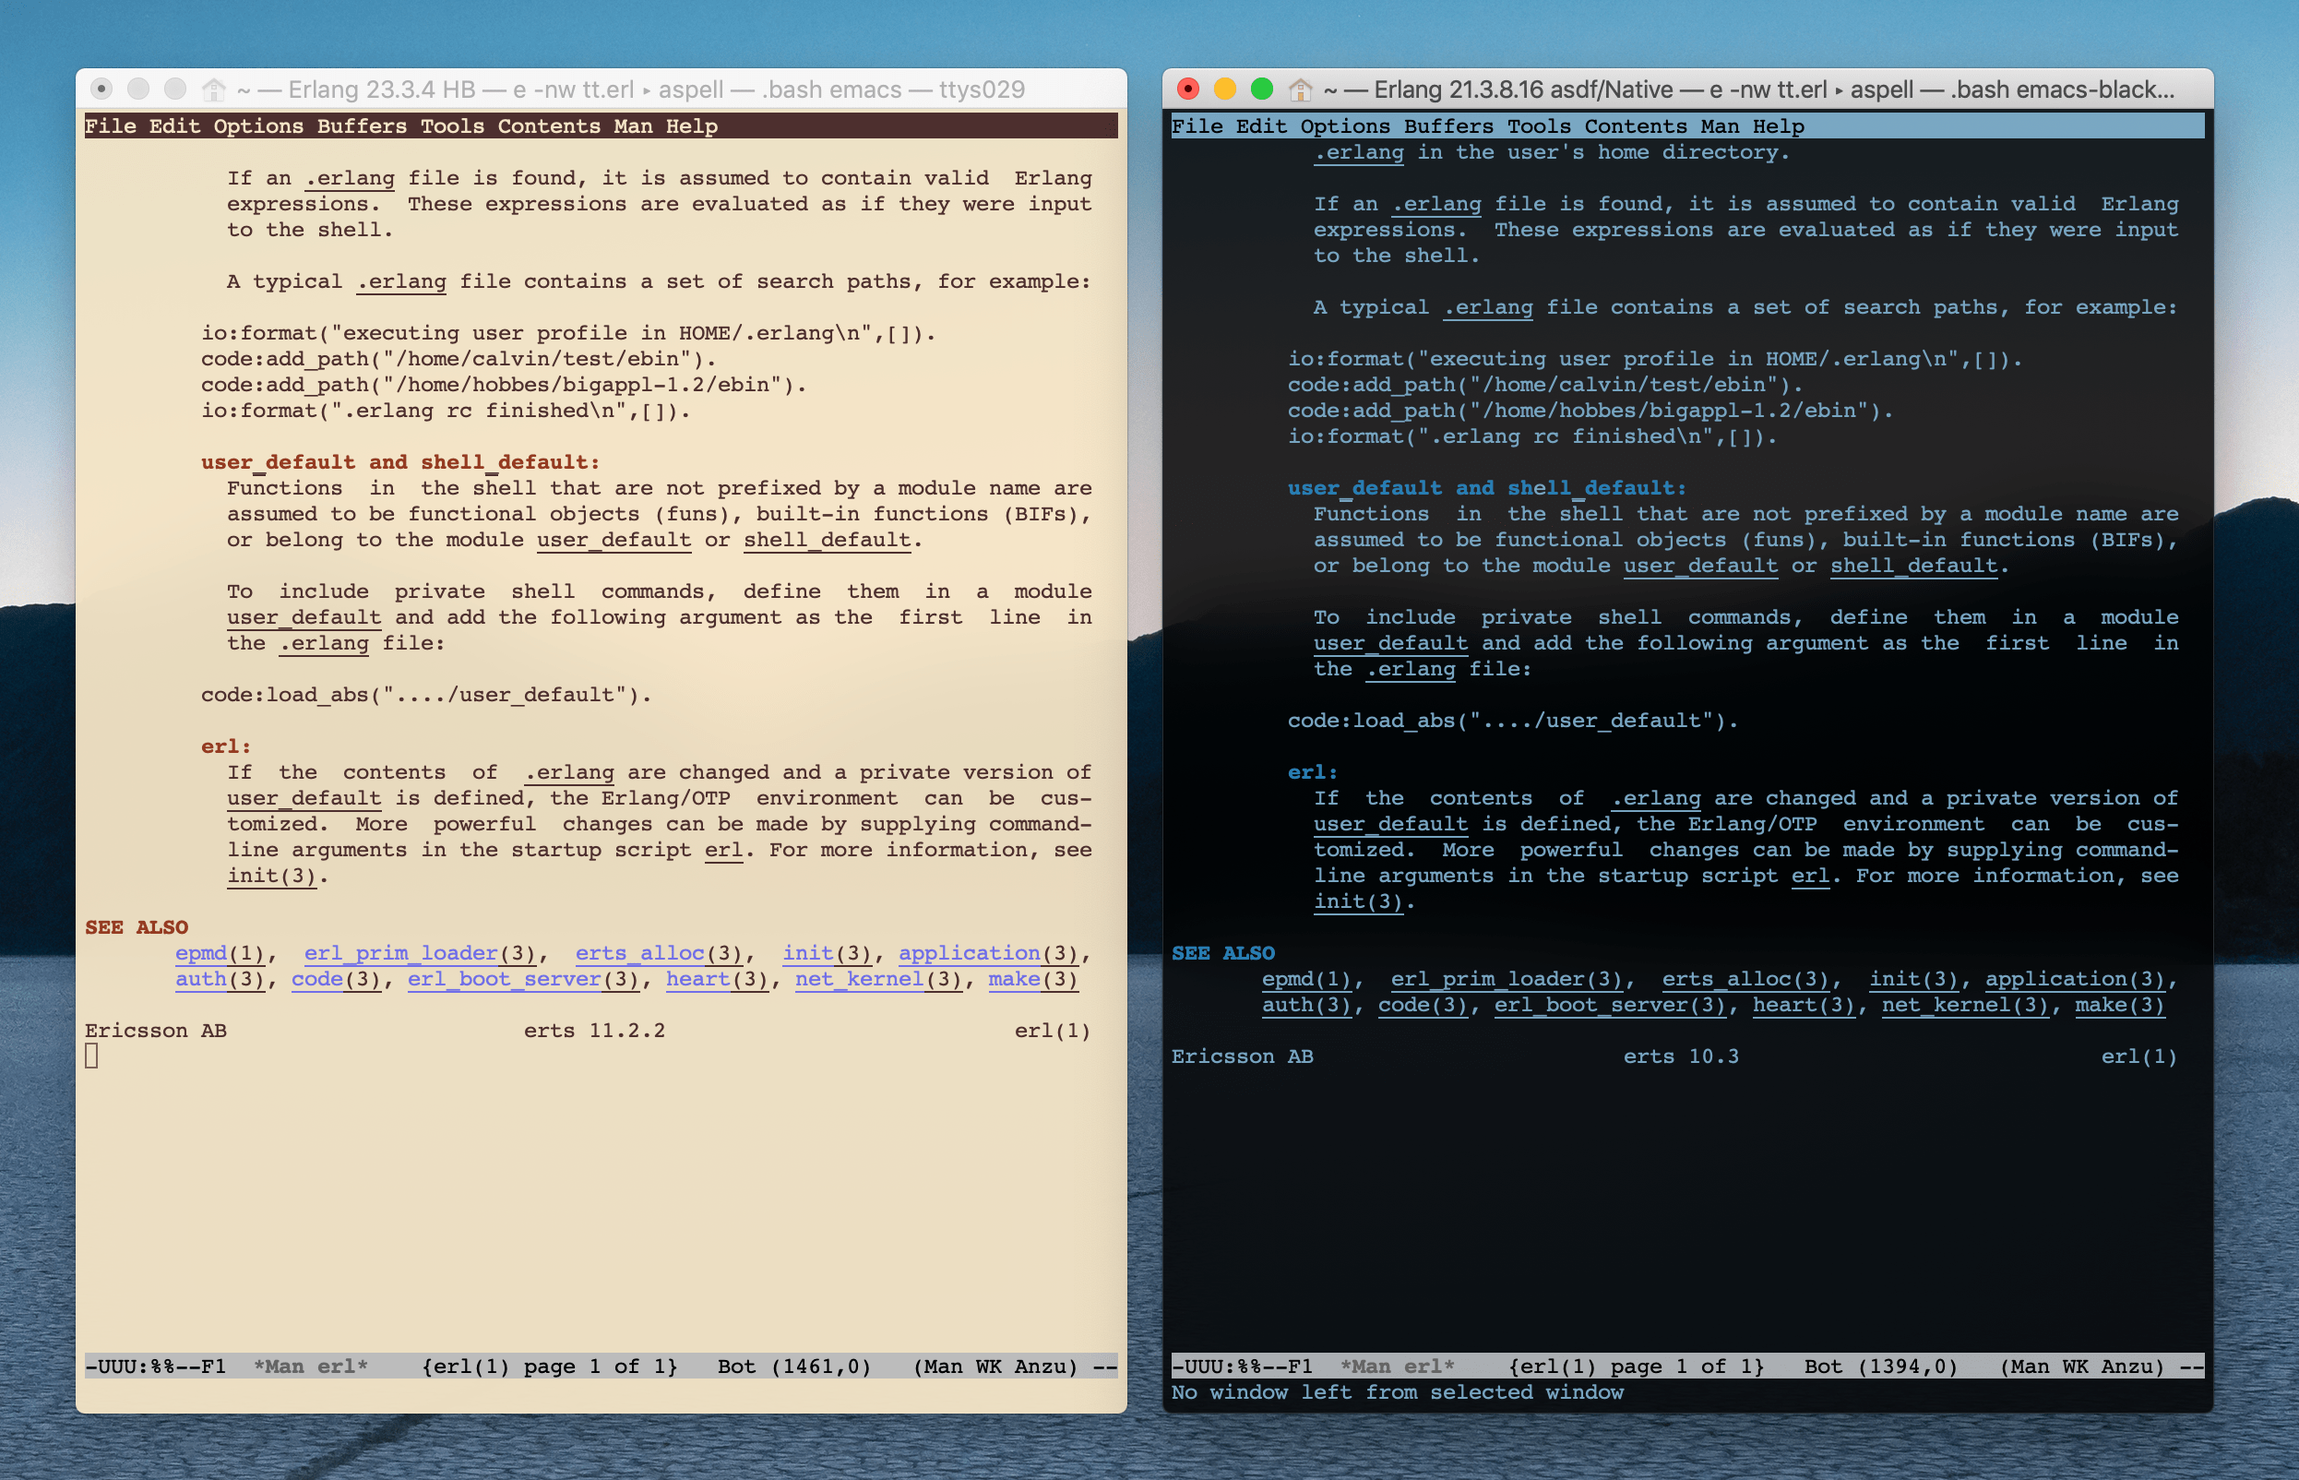
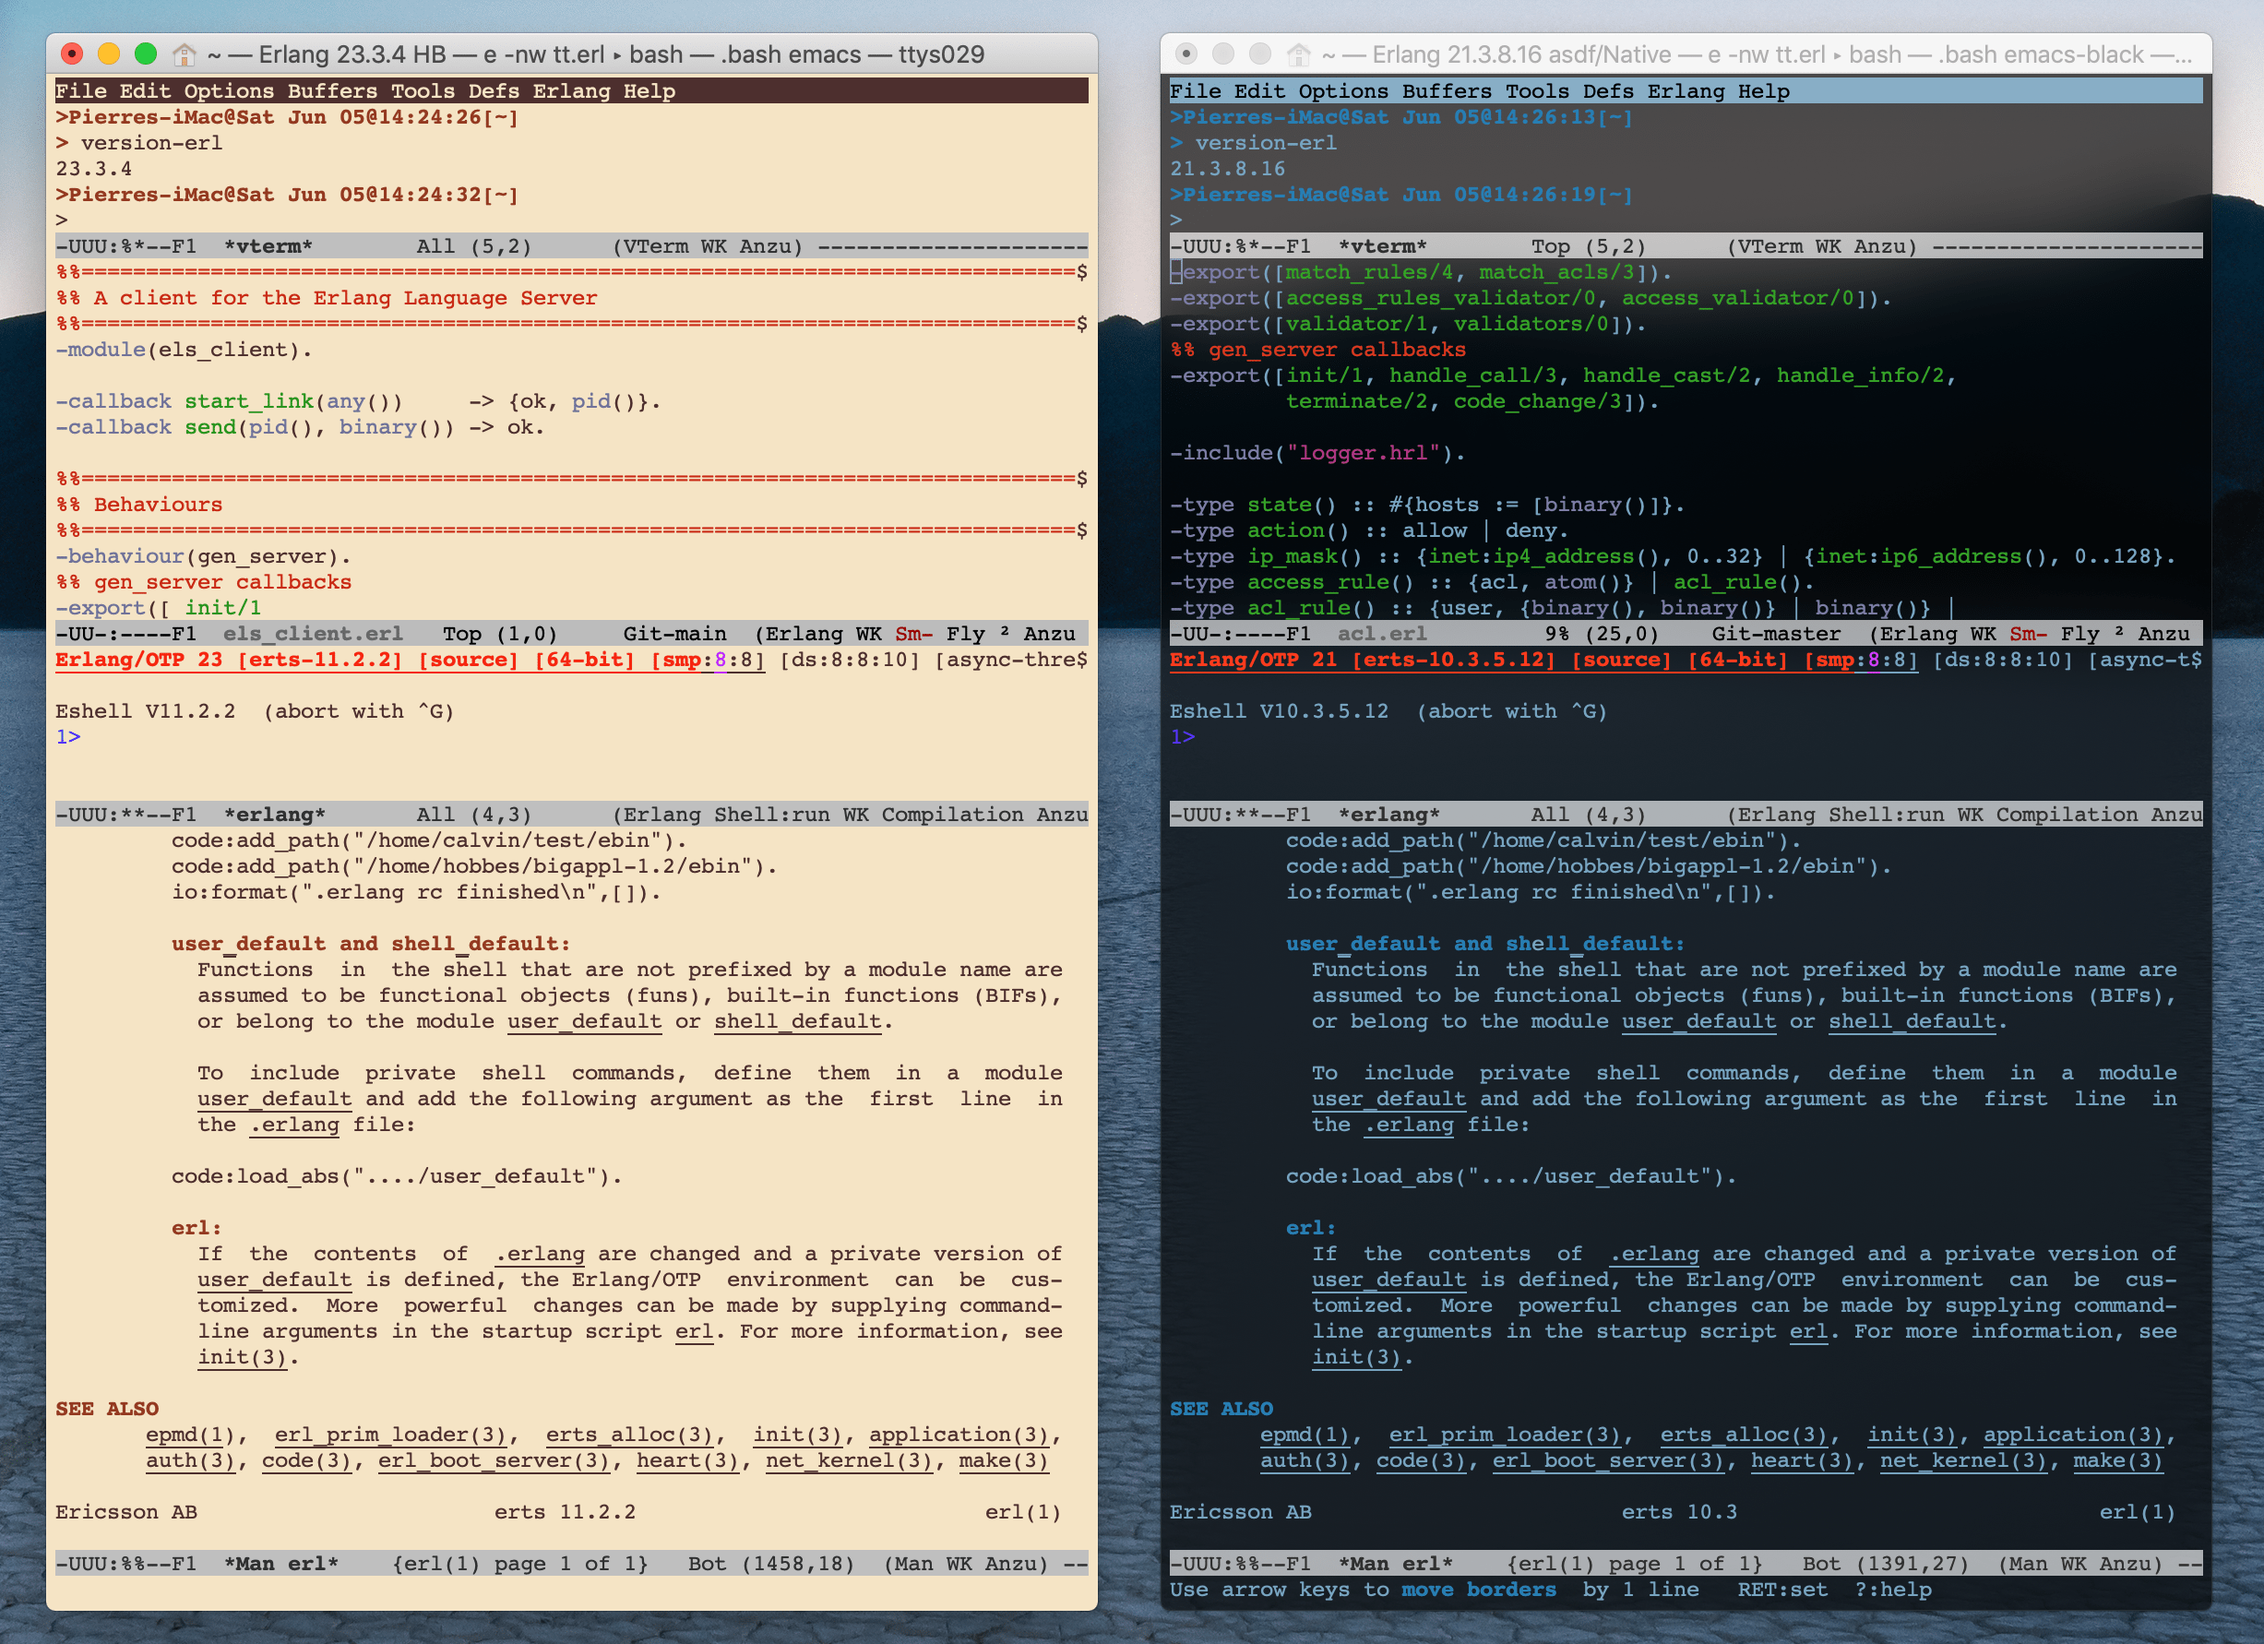
Move things in each Emacs session

diff --git a/doc/editing-erlang-with-pel.rst b/doc/editing-erlang-with-pel.rst
@@ -7,7 +7,7 @@ Using PEL with Specialized Shells for Erlang to Edit Erlang
 :Project:
 :Created:  Saturday, June  5 2021.
 :Author:  Pierre Rouleau <prouleau001@gmail.com>
-:Modified: 2021-06-05 12:58:14, updated by Pierre Rouleau.
+:Modified: 2021-06-05 14:48:37, updated by Pierre Rouleau.
 :Copyright: © 2021, Pierre Rouleau
 
 .. _Prev:  specialized-shells.rst
@@ -64,9 +64,16 @@ the version of Erlang selected for the OS specialized shell.
 The following screen shot shows two terminal shells that have been specialized
 for different versions of Erlang. The one on the left is using Erlang 23.3.4
 as installed by Homebrew.   The one on the right is using Erlang 21.3.8.16
-installed by asdf-vm using the native compiler on macOS.  Each one show the
-end of the erl man page where you can read their corresponding version of
-Erlang erts.
+installed by asdf-vm using the native compiler on macOS.  Each one show 4
+windows:
+- A vterm window chowing the result of the command ``version-erl`` that
+  displays the version of Erlang available to the shell.
+- A Erlang file edited.  This window has the focus, so the Emacs menu at the
+  top  of the Emacs frame is for Erlang buffers,
+- A window with  the Erlang shell, erl, running.  The first thing this does is
+  print version information.
+- A window showing the end of the erl man page where you can read their
+  corresponding version of Erlang erts.
 
 
 .. image:: ../res/two-shells-two-versions.png
